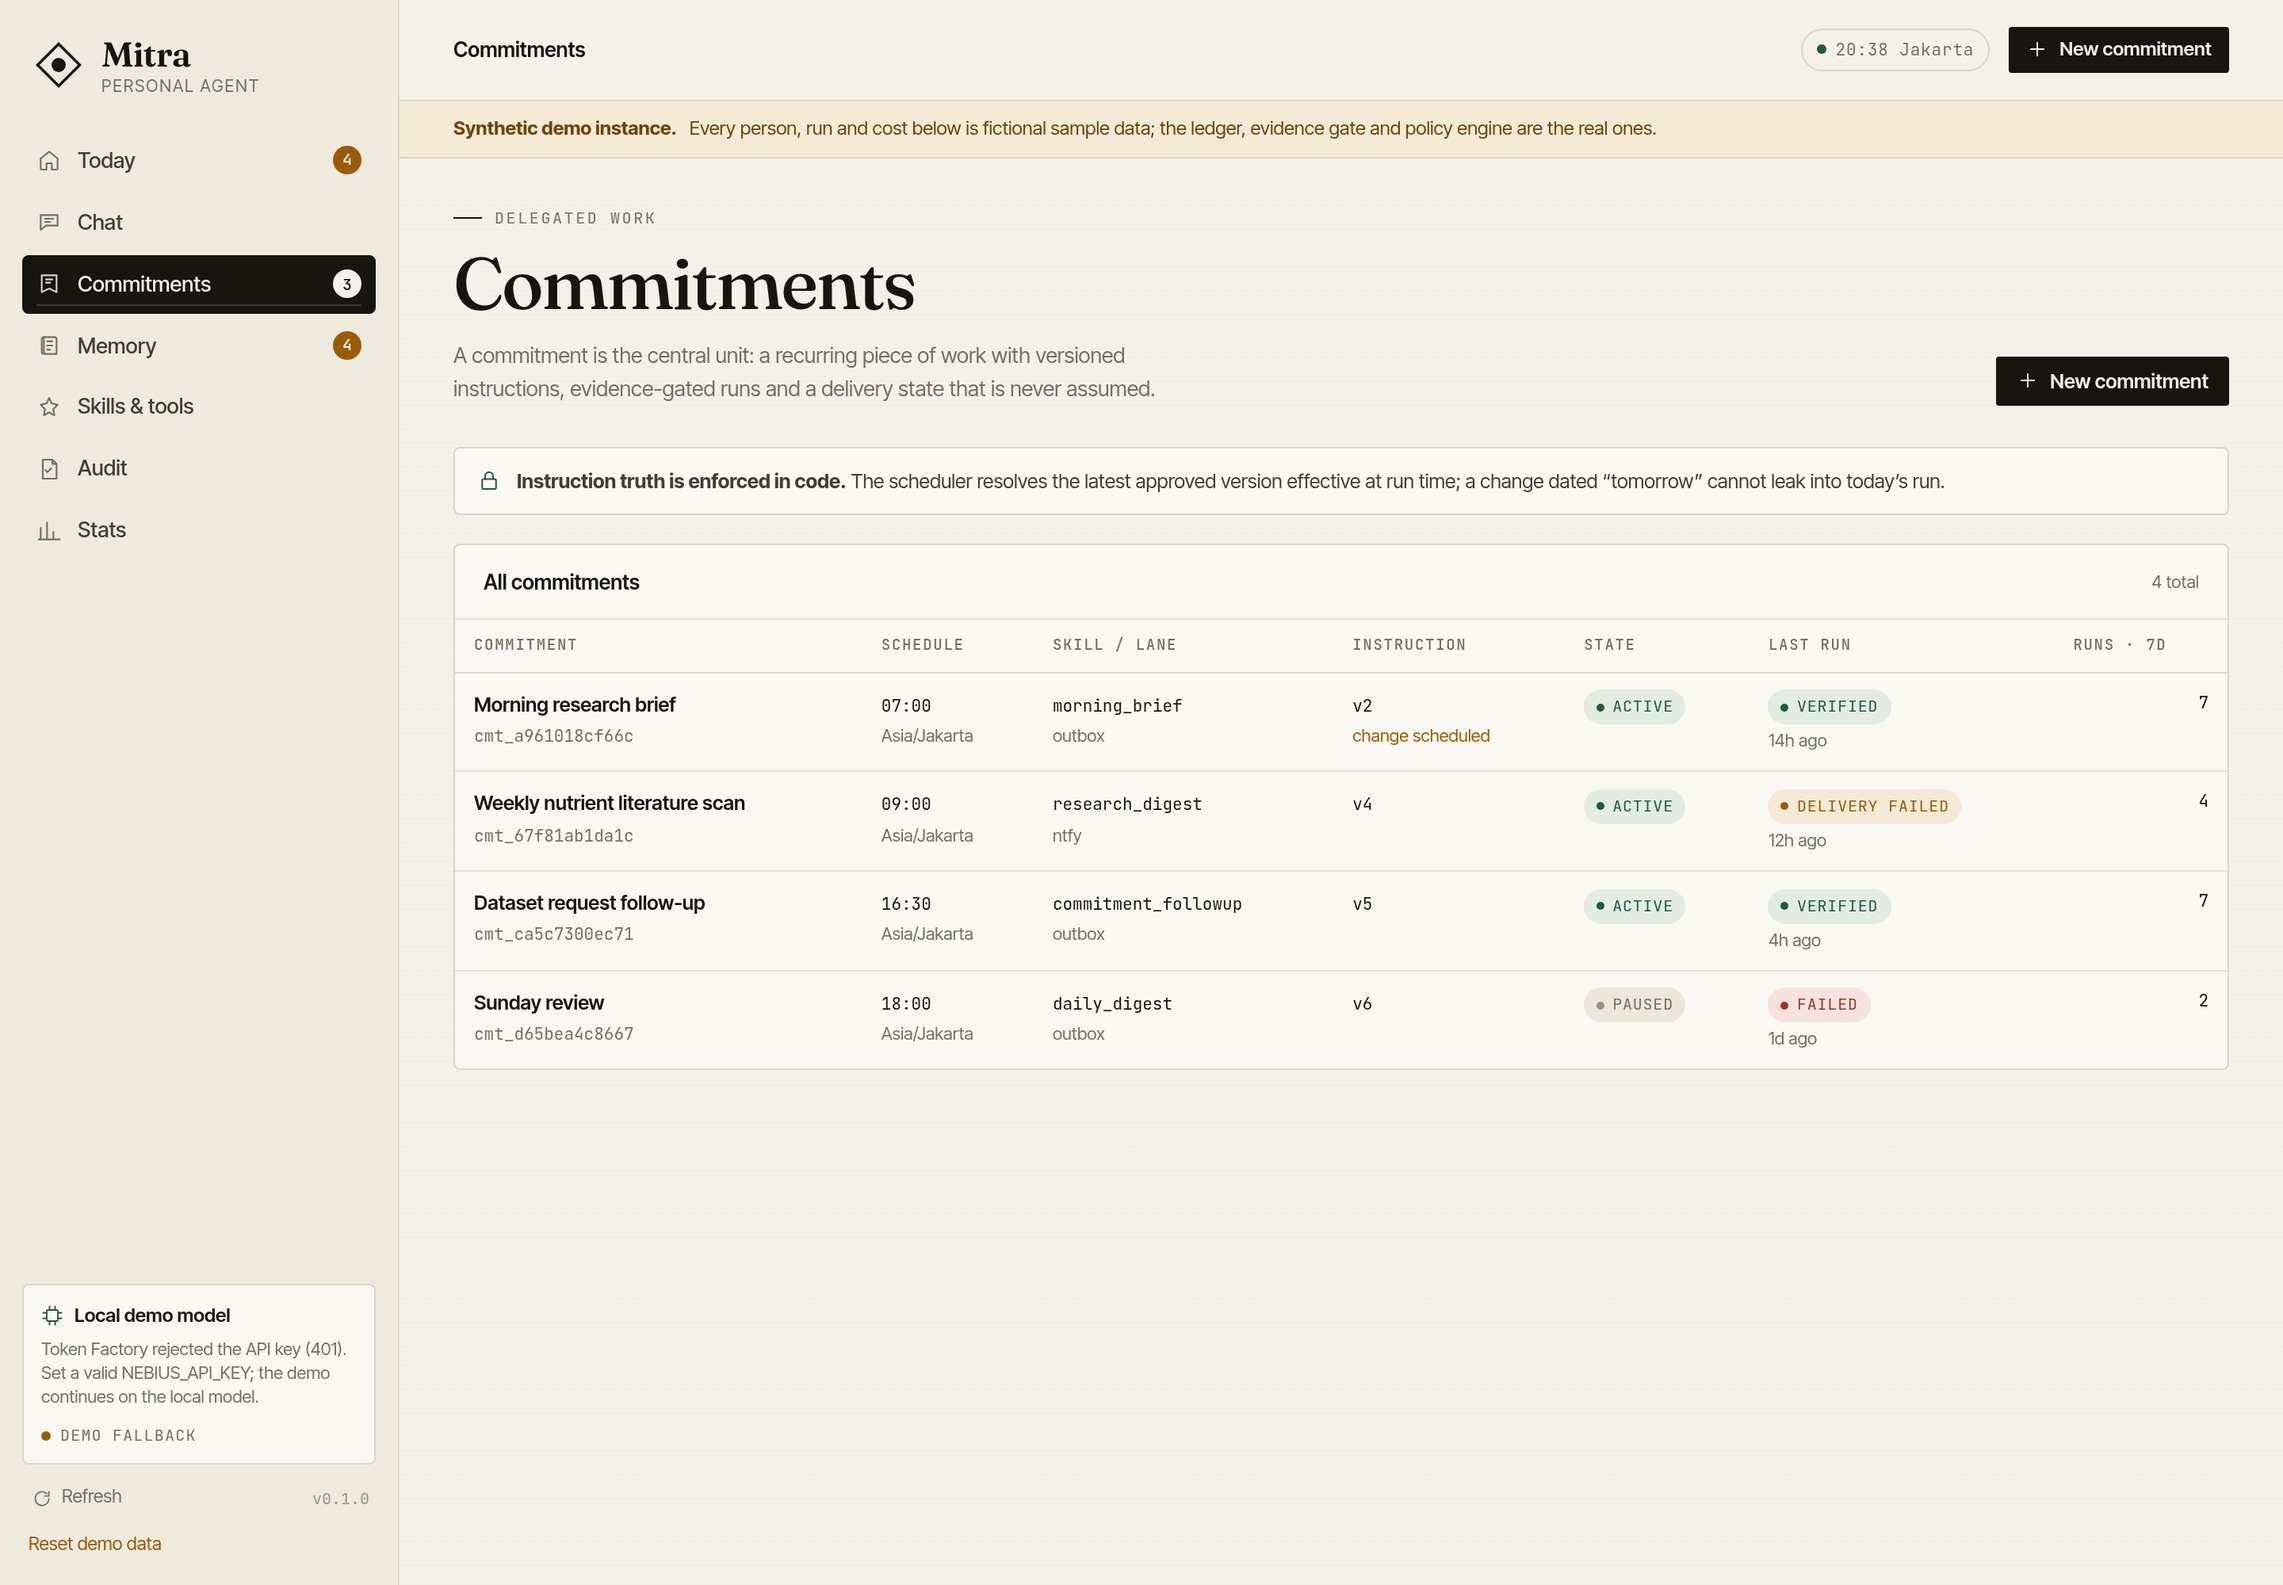
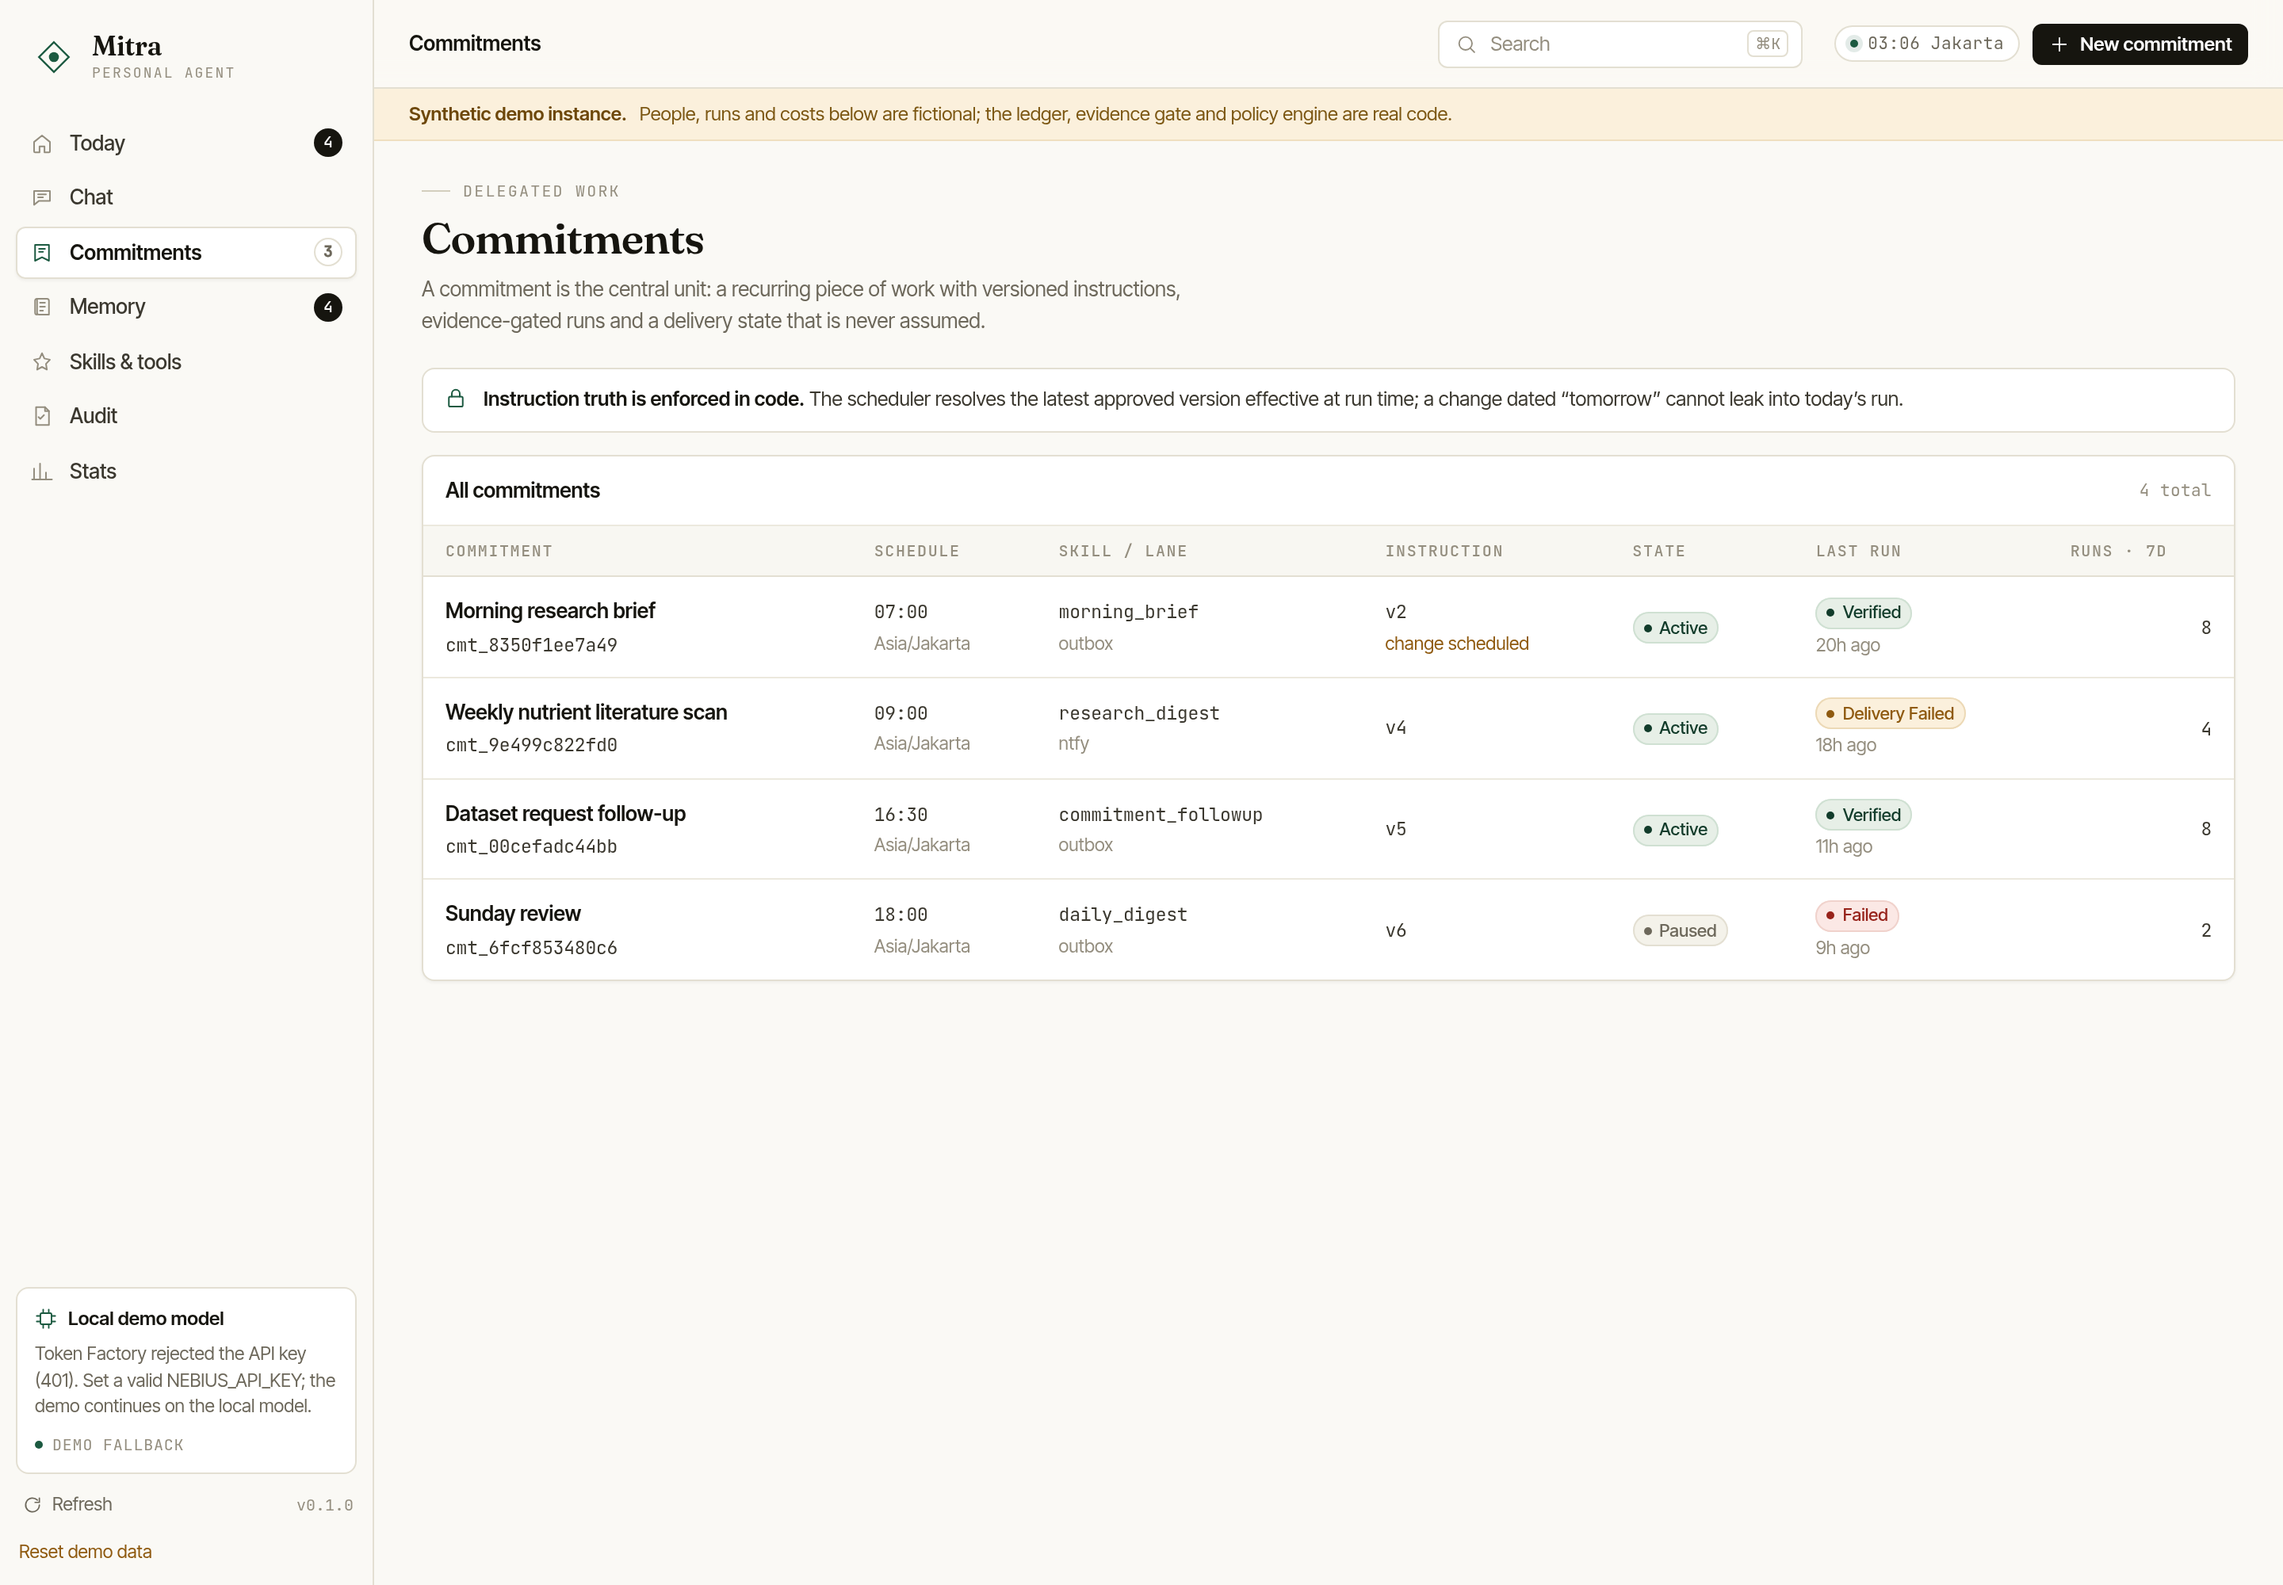
docs: refresh screenshots and align the walkthrough script
Regenerated every capture from the redesigned UI and rewrote the video beats to
the real 3:06 cut (title card, captions, end card) with the actions that are
actually on screen.

diff --git a/docs/SUBMISSION.md b/docs/SUBMISSION.md
@@ -1,4 +1,4 @@
-# Devpost submission — copy, links, and the 3-minute video
+# Devpost submission — copy, links, and the walkthrough video
 
 Everything below is ready to paste. Replace `DEMO_URL` and `REPO_URL` once the
 demo is deployed.
@@ -6,7 +6,7 @@ demo is deployed.
 - **Demo:** <https://ip-172-26-13-244.tail40f715.ts.net:10000/> (synthetic instance, resettable)
 - **Repository:** https://github.com/Alvnvnc/mitra
 - **Track:** Personal AI
-- **Video:** 3:00, structure below
+- **Video:** 3:06 (title card + captioned walkthrough + end card), structure below
 
 ---
 
@@ -146,27 +146,31 @@ API key" on every surface. The live path is implemented and tested with a stub;
 
 ---
 
-# 3-minute video script
+# Walkthrough script (3:06)
 
 > **A captioned picture track already exists:** `docs/media/demo-walkthrough.mp4`
-> (3:00, 1440×900, silent with on-screen captions, recorded from the demo
-> instance). Upload it as-is, or lay the narration below over it — the beats line
-> up with the script timings. Re-record with
-> `python scripts/record_demo.py --base <url> --out docs/media/demo.webm`.
+> (3:06 including title and end cards, 1440×900, silent with burned-in captions,
+> recorded from the deployed demo). Upload it as-is, or lay the narration below
+> over it — the beats line up with the times in the table. Rebuild it with
+> `python scripts/record_demo.py --out /tmp/demo.webm`, then
+> `python scripts/build_video_assets.py` and
+> `python scripts/mux_demo_video.py --raw /tmp/demo.webm`.
 
 Screen recording, 1440×900 browser, demo instance running. Speak calmly; do not
 narrate the UI, narrate the *guarantee*.
 
 | Time | On screen | Say |
 |---|---|---|
-| 0:00–0:15 | Today view, hero + "4 things need you" | "This is Mitra. It runs recurring work for me and it proves what happened. Right now four things need a human decision — and it says so without me asking." |
-| 0:15–0:35 | Scroll to the red delivery banner, click **View notice** | "This commitment ran, passed its evidence check, produced a verified artifact — and then delivery failed. Mitra records `delivery_failed`, writes a notice, and keeps the result. Delivery is a separate stage from execution, by design." |
-| 0:35–1:05 | Commitments → open *Morning research brief* → Runs table | "Every run carries evidence. Two checks: artifact exists, artifact has the required sections. Green means both passed. This red row is a real failure — the skill demanded three bullets, the artifact had two, and the gate refused to call it done." |
-| 1:05–1:30 | Instruction history → the scheduled v3 card | "Instructions are versions, and only the version effective at run time is used. v3 becomes effective tomorrow at 14:17. Tomorrow's run picks it up. Today's run cannot. That is enforced in the scheduler, not in a prompt." |
-| 1:30–2:00 | Memory view → approve a proposal | "Chat cannot write memory. Nightly consolidation proposes a change, with the diff and the source message ids. I approve, and it appends one bullet. If I reject, the page stays byte-identical. The model never decides what it remembers." |
-| 2:00–2:25 | Chat → "What needs a decision today?" | "Chat reads the real ledger, retrieves the memory pages it used, calls tools through the policy layer, and shows the trace and the cost of the turn. Note the label: this instance runs the local fallback model because our Token Factory key was rejected — the live path is Nemotron 3 on Nebius." |
-| 2:25–2:45 | Audit view → filter **denied** | "Every decision is here, including the ones that were refused. `run_shell` was denied because it is not on the allowlist. A security claim you can't audit isn't a security claim." |
-| 2:45–3:00 | Stats view | "Cost, reliability, interventions, and calls by model — measured per call, not estimated. This is what 'always-on and trustworthy' has to look like: a ledger you can read, and a system that tells on itself." |
+| 0:00–0:02 | Title card | "Mitra: delegated work, verified." |
+| 0:02–0:13 | Today view, hero + "4 things need you" | "This is Mitra. It runs recurring work for me and it proves what happened. Right now four things need a human decision — and it says so without me asking." |
+| 0:13–0:31 | Scroll to needs-you, click **View notice** | "This commitment ran, passed its evidence check, produced a verified artifact — and then delivery failed. Mitra records `delivery_failed`, writes a notice, and keeps the result. Delivery is a separate stage from execution, by design." |
+| 0:31–0:46 | Commitments → open *Morning research brief* | "Every commitment is one unit of delegated work: a schedule, a skill, and exactly one instruction version in force." |
+| 0:46–1:28 | Runs table, evidence counts, instruction history | "Every run carries evidence. Two checks: the artifact exists, and it has the required sections. Green means both passed. The red row is real — the skill demanded three bullets, the artifact had two, and the gate refused to call it done. And instructions are versions: v3 becomes effective tomorrow. Tomorrow's run picks it up; today's cannot. That is enforced in the scheduler, not in a prompt." |
+| 1:28–1:57 | Memory view → reject a proposal | "Chat cannot write memory. Consolidation proposes a change, with the diff and the source message ids. If I reject, the page stays byte-identical. Approving appends one bullet. The model never decides what it remembers." |
+| 1:57–2:32 | Chat → new conversation → "Did yesterday's brief actually deliver?" → expand the trace | "Chat reads the real ledger, retrieves the memory pages it used, calls tools through the policy layer, and shows the sources, the trace and the cost of the turn. Note the label: this instance runs the local fallback model because our Token Factory key was rejected — the live path is Nemotron 3 on Nebius." |
+| 2:32–2:46 | Audit → filter **denied** | "Every decision is here, including the refused ones. `web_fetch` was denied for a private address; `run_shell` for not being on the allowlist; a memory write because chat is read-only. A security claim you can't audit isn't a security claim." |
+| 2:46–3:02 | Stats view | "Cost, reliability, interventions, and calls by model — measured per call, not estimated. This is what 'always-on and trustworthy' has to look like: a ledger you can read, and a system that tells on itself." |
+| 3:02–3:06 | End card | — |
 
 ## Closing line
 
@@ -175,9 +179,9 @@ own. It is a partner that keeps its promises in writing."
 
 ## Thumbnail
 
-`docs/media/today.png`, cropped to the hero: "Good evening, Maya. / 4 things need
-you." on warm paper, with the delivery-failure banner visible. No text overlay
-needed; the type is the design.
+`docs/media/today.png`, cropped to the hero: "4 things need you." on warm paper,
+with the delivery-failure banner visible. No text overlay needed; the type is the
+design. The video title card (`.design/video/title.png`) works as a fallback.
 
 ## Swapping in a live Nebius key (before the deadline)
 

diff --git a/README.md b/README.md
@@ -52,7 +52,7 @@ src/mitra/
 docker/              Dockerfile entrypoint + Caddyfile for a TLS front door.
 scripts/             serve.py, seed_demo.py, capture_screens.py, record_demo.py,
                      smoke_test.py, demo_vertical_slice.py, run_scheduler.py, ntfy_ping.py.
-tests/               44 tests: ledger invariants, policy, agent, consolidation, HTTP surface.
+tests/               46 tests: ledger invariants, policy, agent, consolidation, HTTP surface.
 docs/                architecture, problem statement, validation plan, media, feedback.
 ```
 
@@ -80,7 +80,7 @@ cp .env.example .env
 MITRA_DATA_DIR=data/demo MITRA_DEMO_MODE=1 \
   .venv/bin/python scripts/serve.py --port 8080         # dashboard
 .venv/bin/python scripts/run_scheduler.py --once       # one scheduler tick against real skills
-.venv/bin/python -m pytest -q                          # 44 tests
+.venv/bin/python -m pytest -q                          # 46 tests
 ```
 
 ### Public demo hardening
@@ -112,7 +112,11 @@ Set `NEBIUS_API_KEY` and restart: the router probes the key at startup, flips `p
 
 ## The dashboard
 
-Seven views, all reading the same ledger.
+Seven views, all reading the same ledger, in one shell: a quiet rail for
+navigation, a sticky command bar (`⌘K` or `/` opens the palette), and one primary
+surface per view with the supporting context in a right rail. Dense tables carry
+the detail, and the demo banner stays pinned so synthetic data is never mistaken
+for real work.
 
 | View | What it is for |
 |---|---|
@@ -142,7 +146,7 @@ Mobile: layout collapses to a single column with a slide-over navigation rail (`
 - **Delivery is separate.** `mark_delivery_failed()` never mutates the run's evidence; the verified artifact survives a delivery failure.
 - **Policy before egress.** Every tool declares risk and egress hosts; `PolicyEngine` checks scheme, host, and private-address resolution through a single HTTP wrapper. Denials are audited, not dropped.
 - **Memory writes need a human.** Chat is read-only against the self-model; consolidation only *proposes*.
-- **Tests.** 44 tests covering ledger invariants, policy/approvals, the agent loop, consolidation, and the HTTP surface. `ruff check` and `ruff format --check` are clean.
+- **Tests.** 46 tests covering ledger invariants, policy/approvals, the agent loop, consolidation, and the HTTP surface. `ruff check` and `ruff format --check` are clean.
 
 ## Limitations (deliberate)
 
